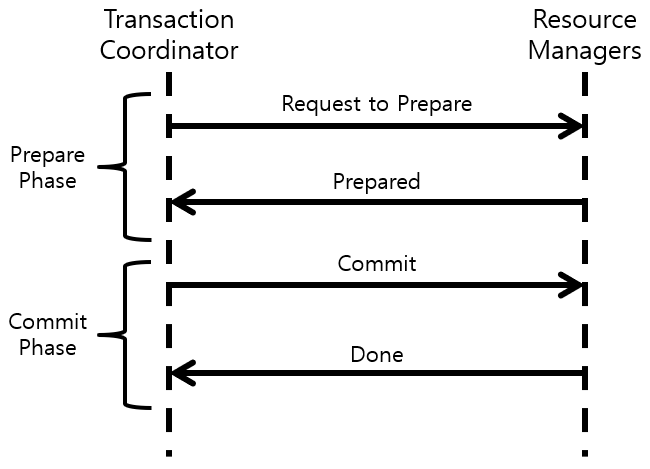
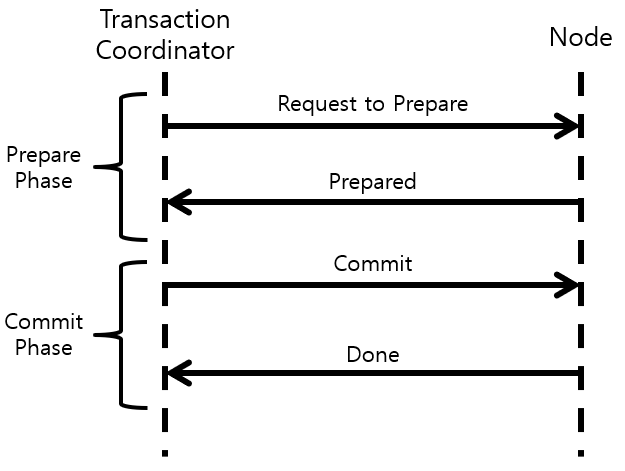
Update Two-Phase Commit

diff --git a/_docs/theory_analysis/Two-Phase_Commit.md b/_docs/theory_analysis/Two-Phase_Commit.md
@@ -9,9 +9,17 @@ adsense: true
 
 Two-Phase Commit (2PC)를 분석한다.
 
-### 1. Two-Phase Commit
+### 1. Two-Phase Commit (2PC)
 
-![]({{site.baseurl}}/images/theory_analysis/Two-Phase_Commit/Two-Phase_Commit.PNG){: width="600px"}
+![]({{site.baseurl}}/images/theory_analysis/Two-Phase_Commit/Two-Phase_Commit.PNG){: width="400px"}
+
+Two-Phase Commit은 분산 시스템 환경에서 여러 Node에서 수행해야하는 일을 하나의 Transaction으로 묶기 위해 사용하는 기법이다. 위의 그림은 Two-Phase Commit 과정을 나타내고 있다. 일반 Commit 과정에 비해 **Prepare Phase**가 추가적으로 존재하기 때문에 Two-Phase라는 이름이 붙었다.
+
+Transaction Coordinatior는 Transaction을 수행해야 하는 모든 Node()들에게 Prepare 명령을 전달한다. 여기서 Prepare의 의미는 Commit 요청이 오면 Commit을 수행할 수 있는 상태를 의미한다. Transaction Coordinator는 모든 Node에게 Prepared Ack를 받으면 다시 모든 Node에게 Commit 요청을 보내어 각 Node에서 Commit 동작을 수행하도록 한다. Transaction Coordinator는 모든 Node로 부터 Done Ack를 받으면 Transaction을 종료한다.
+
+만약 Prepare Phase에서 Transaction Coordinator가 특정 Node로부터 Prepared Ack를 받지 못하면, Transaction Coordinator는 모든 Node에게 Abort 명령을 전달한다. Abort 명령을 전달받은 Node들은 Prepared 상태에서 벗어나 원래의 상태로 Rollback된다.
+
+만약 Commit Phase에서 Transaction Coordinator가 특정 Node로부터 Done Ack를 받지 못하면, Transaction Coordinator는 Done Ack를 받은 Node는 그대로 놔두고 Done Ack를 받지 못한 Node에게는 여러번 Commit 명령을 전달한다. 여러번의 Commit 명령을 전달한 후에도 Done Ack를 받지 못하면 Transaction은 종료되지 않은채로 남아있게 된다. DB 관리자가 해당 Node에서 직접 Commit을 수행하고 Transaction을 종료하여 정상화 시켜야 한다. 이처럼 Two-Phase Commit 기법은 완전한 Transaction을 보장하지 못한다.
 
 ### 2. 참조
 
